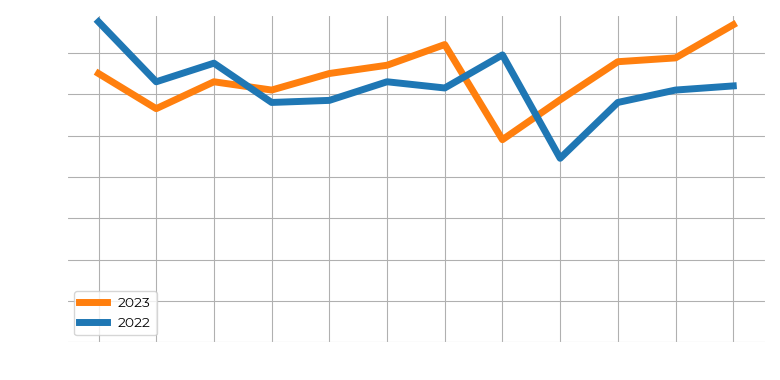
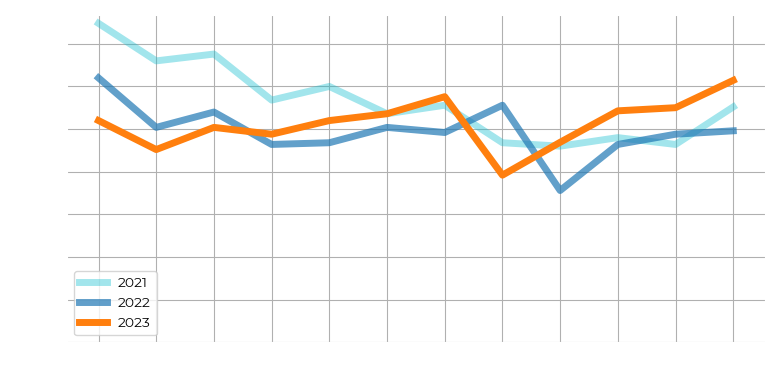
Previous 2 years in the graph and alpha transparency

diff --git a/energieverbruik/energieverbruik.py b/energieverbruik/energieverbruik.py
@@ -312,10 +312,12 @@ rcParams['font.sans-serif'] = ['Montserrat']
 def GrafiekGas():
     # Grafiek gasverbruik
     plotGas.figure()
+    plotGas.plot(maanden, df['vrbr_gas_VrgJr2'], color='tab:cyan', label="2021",
+                 linewidth=5, alpha=0.4)
+    plotGas.plot(maanden, df['vrbr_gas_VrgJr'], color='tab:blue', label="2022",
+                 linewidth=5, alpha=0.7)
     plotGas.plot(maanden, schatVerbrGasHdgJr, color='tab:orange',
                  label="2023", linewidth=5)
-    plotGas.plot(maanden, df['vrbr_gas_VrgJr'], color='tab:blue', label="2022",
-                 linewidth=5)
     #plotGas.title("Gas", color='White')
     #plotGas.xlabel("maand", color='White')
     plotGas.ylabel("verbruik (m3)", color='White')
@@ -331,10 +333,12 @@ def GrafiekGas():
 def GrafiekElektriciteit():
     # Grafiek elektriciteitsverbruik
     plotEle.figure()
+    plotEle.plot(maanden, df['vrbr_ele_VrgJr2'], color='tab:cyan', label="2021",
+                 linewidth=5, alpha=0.4)
+    plotEle.plot(maanden, df['vrbr_ele_VrgJr'], color='tab:blue', label="2022",
+                 linewidth=5, alpha=0.7)
     plotEle.plot(maanden, schatVerbrEleHdgJr,
                  color='tab:orange', label="2023", linewidth=5)
-    plotEle.plot(maanden, df['vrbr_ele_VrgJr'], color='tab:blue', label="2022",
-                 linewidth=5)
     #plotEle.title("Elektriciteit", color='White')
     #plotEle.xlabel("maand", color='White')
     plotEle.ylabel("verbruik (kWh)", color='White')
@@ -350,10 +354,12 @@ def GrafiekElektriciteit():
 def GrafiekWater():
     # Grafiek waterverbruik
     plotWat.figure()
+    plotWat.plot(maanden, df['vrbr_wat_VrgJr2'], color='tab:cyan', label="2021",
+                 linewidth=5, alpha=0.4)
+    plotWat.plot(maanden, df['vrbr_wat_VrgJr'], color='tab:blue', label="2022",
+                 linewidth=5, alpha=0.7)
     plotWat.plot(maanden, schatVerbrWatHdgJr, color='tab:orange',
                  label="2023", linewidth=5)
-    plotWat.plot(maanden, df['vrbr_wat_VrgJr'], color='tab:blue', label="2022",
-                 linewidth=5)
     #plotWat.title("Water", color='White')
     #plotWat.xlabel("maand", color='White')
     plotWat.ylabel("verbruik (m3)", color='White')
